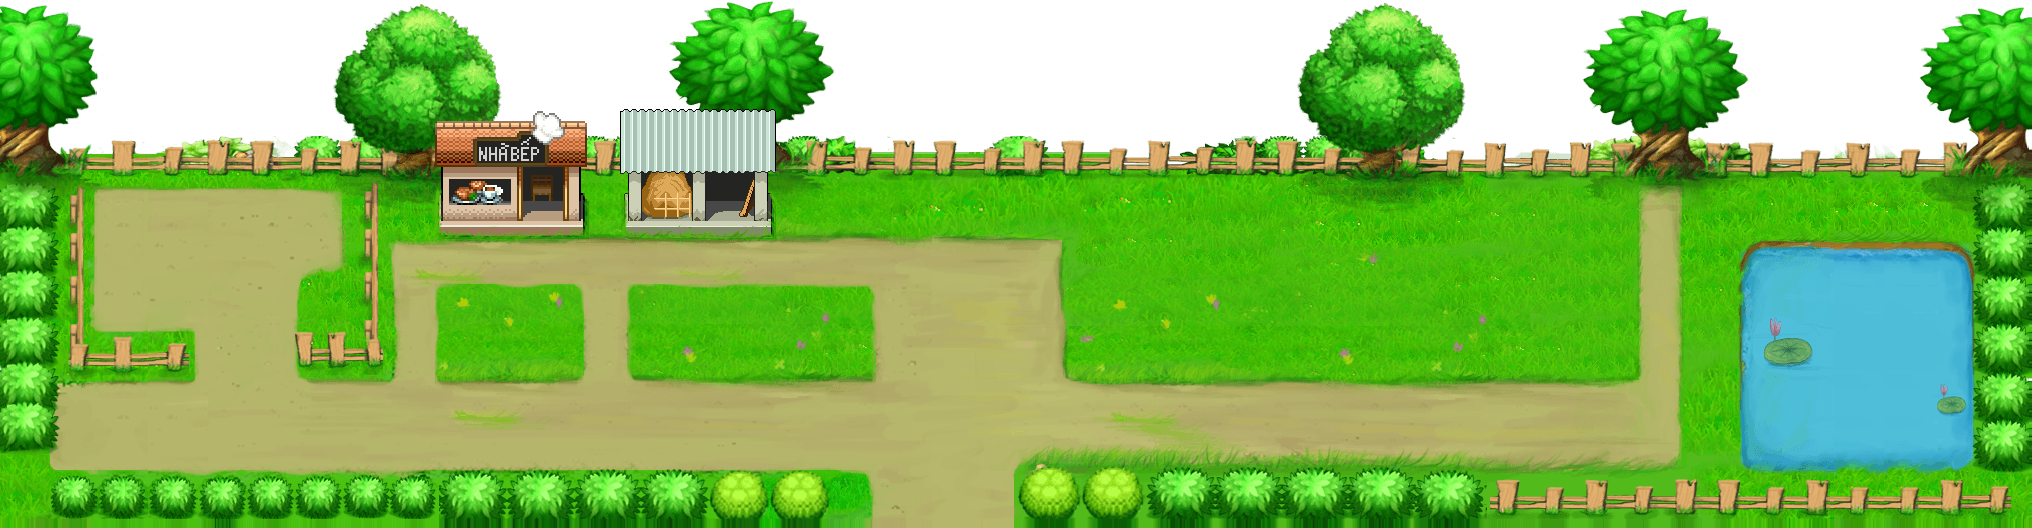
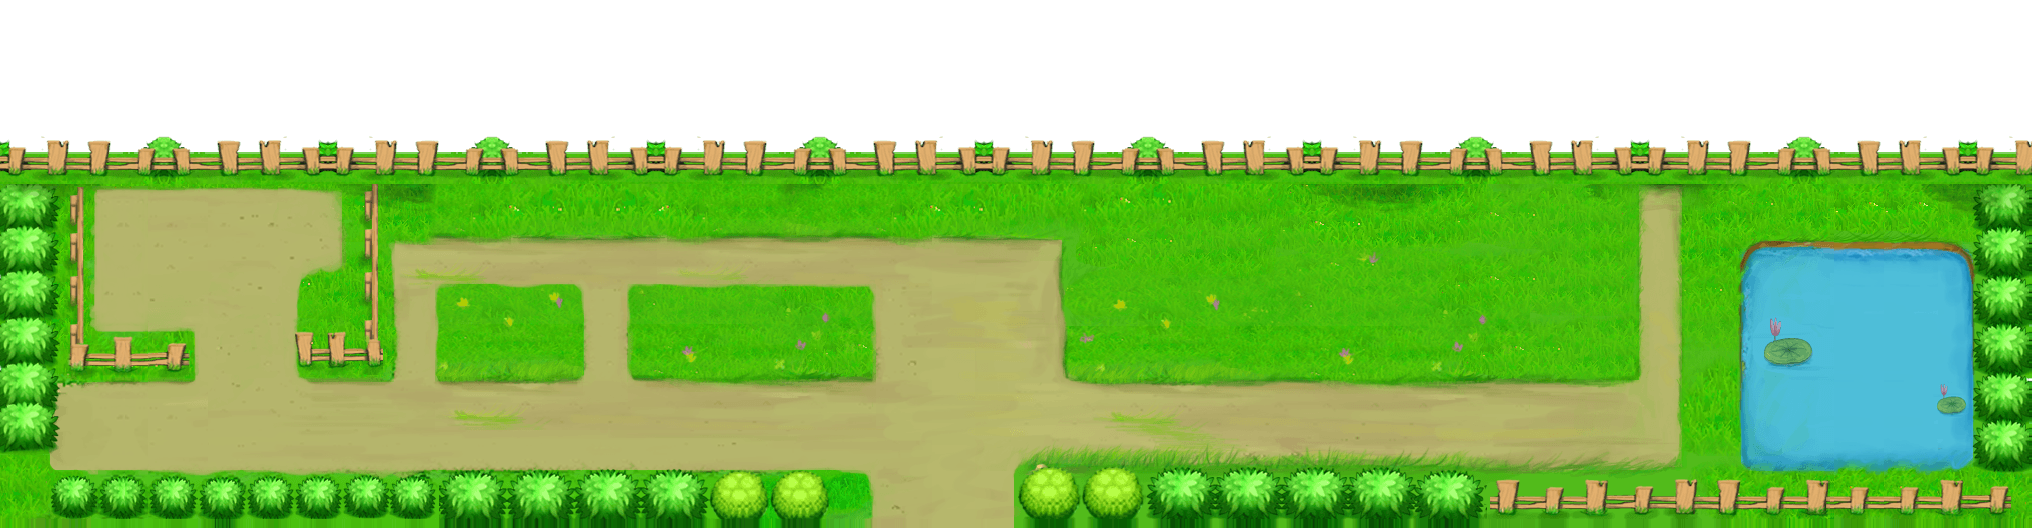
Nhà bếp/kho/cửa hàng dùng pack Cozy, sạch cây, bỏ mốc cổng
- scripts/clean_farm_map.py: xoá hết cây và mấy khúc gỗ đã chặt trên nền
  nông trại + cổng, xoá luôn 2 căn nhà và cửa hàng vẽ sẵn, trả lại hàng rào
  và thảm cỏ bằng cách lát gương một đoạn viền sạch trong chính map
- Nhà bếp / nhà kho / cửa hàng dựng lại bằng sprite pack Cozy
  (farm_house, farm_barn, farm_market), có tên treo phía trên
- Bỏ mốc cổng nhấp nháy trên map nền ảnh: cứ đi tới cổng/nhà là hiện nút,
  tầm với nới rộng 26 -> 64px cho vừa cỡ map HD
- Xe cộ và nhà chờ xe buýt phóng to cho khớp tỉ lệ map HD
- scripts/reskin_shelter.py: thay poster logo game khác trong nhà chờ bằng
  poster nông trại dựng từ sprite pack Cozy

Claude-Session: https://claude.ai/code/session_012s4JfXd6t7YNfBeGEkBxTh

Changed region(s): [[0.0, 0.0, 1.0, 0.4848]]

diff --git a/src/scenes/WorldScene.ts b/src/scenes/WorldScene.ts
@@ -48,10 +48,13 @@ let pendingDepart: string | undefined;
 const TRAFFIC_KEYS = ['veh_bus', 'veh_truck_orange', 'veh_camper_pink', 'veh_camper_yellow', 'veh_truck_bee', 'veh_truck_gift'];
 
 // Decor đặt sẵn theo khu (sprite thật từ asset pack) — toạ độ tile, origin đáy giữa
-const ZONE_DECOR: Record<string, { key: string; x: number; y: number; s?: number }[]> = {
-  // Nông trại không đặt thêm công trình nào: nhà bếp, nhà kho, sân rào, hồ cá
-  // và cây cối đều nằm sẵn trong ảnh nền map 25 -> không thể chồng lên nhau.
-  farm: [],
+const ZONE_DECOR: Record<string, { key: string; x: number; y: number; s?: number; label?: string }[]> = {
+  // Nền map 25 đã bị xoá sạch cây + 2 căn nhà gốc (scripts/clean_farm_map.py),
+  // nhà bếp và nhà kho dựng lại bằng sprite pack Cozy cho đồng bộ style.
+  farm: [
+    { key: 'bld_farm_house', x: 32, y: 15, s: 2, label: 'Nhà bếp' },
+    { key: 'bld_farm_barn', x: 43.5, y: 15, s: 2, label: 'Nhà kho' }
+  ],
   beach: [
     { key: 'bld_fishshop', x: 10, y: 7 },    // tiệm câu ông Biển
     { key: 'bld_beachbar', x: 22, y: 12 },
@@ -69,8 +72,11 @@ const ZONE_DECOR: Record<string, { key: string; x: number; y: number; s?: number
     { key: 'lt_love_tree', x: 50, y: 22, s: 1 }      // cây tình yêu
   ],
   // map cổng: cây + đèn + ghế dọc vỉa hè
-  // cổng nông trại cũng dùng ảnh nền gốc (biển FARM, cửa hàng, cây) -> để trống
-  farm_gate: [],
+  // cổng nông trại: nền gốc chỉ còn biển FARM + hàng rào, cửa hàng dựng lại
+  // bằng sprite pack Cozy cho khớp style với nhà bếp/nhà kho trong nông trại
+  farm_gate: [
+    { key: 'bld_farm_market', x: 49, y: 11, s: 2, label: 'Cửa hàng' }
+  ],
   town_gate: [
     { key: 'bld_cafe', x: 7, y: 8, s: 0.9 }, { key: 'bld_pub', x: 34, y: 8, s: 0.9 },
     { key: 'deco_lamp_black', x: 13, y: 11 }, { key: 'deco_lamp_black', x: 27, y: 11 },
@@ -457,10 +463,10 @@ export class WorldScene extends Phaser.Scene {
     const sx = this.busStopX();
     // nền ảnh gốc: đường đất rộng hơn -> đẩy nhà chờ hẳn xuống mặt đường
     const sy = this.zone.bg ? top + 22 : top - 2;
-    this.add.image(sx, sy, 'lt_shelter').setOrigin(0.5, 1).setDepth(sy - 40).setScale(0.6);
+    this.add.image(sx, sy, 'lt_shelter').setOrigin(0.5, 1).setDepth(sy - 40).setScale(this.zone.bg ? 1.1 : 0.6);
     // xe riêng đậu mép đường
     if (S.vehicle && this.textures.exists(`veh_${S.vehicle}`)) {
-      this.add.image(sx + 7 * T, this.roadMidY(), `veh_${S.vehicle}`).setDepth(this.roadMidY()).setScale(1.1);
+      this.add.image(sx + 7 * T, this.roadMidY(), `veh_${S.vehicle}`).setDepth(this.roadMidY()).setScale(this.zone.bg ? 2.2 : 1.1);
     }
 
     if (!this.zone.bg) this.drawGateArch();   // ảnh nền gốc đã có cổng chào riêng
@@ -507,7 +513,7 @@ export class WorldScene extends Phaser.Scene {
         : top + (zh - top) * (toRight ? 0.72 : 0.3);
       const w = this.zone.w * T;
       const car = this.add.image(toRight ? -120 : w + 120, laneY, key)
-        .setDepth(laneY).setScale(1.05).setFlipX(!toRight);
+        .setDepth(laneY).setScale(this.zone.bg ? 2.2 : 1.05).setFlipX(!toRight);
       this.tweens.add({
         targets: car, x: toRight ? w + 120 : -120,
         duration: 6000 + Math.random() * 4000,
@@ -601,6 +607,12 @@ export class WorldScene extends Phaser.Scene {
         .setOrigin(0.5, 1)
         .setScale(d.s ?? (d.key.startsWith('bld_') ? 1.1 : 1.2))
         .setDepth(d.y * T);
+      // tên công trình treo phía trên (thay cho mốc cổng nhấp nháy)
+      if (d.label) {
+        this.add.text(d.x * T, d.y * T - img.displayHeight - 6, d.label, {
+          fontSize: '11px', color: '#fff8e8', backgroundColor: '#00000090', padding: { x: 5, y: 2 }
+        }).setOrigin(0.5, 1).setDepth(d.y * T + 1);
+      }
       // chỉ lấy phần chân nhà để đường đi né, không lấy cả mái
       this.decorRects.push(new Phaser.Geom.Rectangle(
         d.x * T - img.displayWidth * 0.36, d.y * T - 14, img.displayWidth * 0.72, 20));
@@ -684,6 +696,9 @@ export class WorldScene extends Phaser.Scene {
 
   // ================= cổng khu vực =================
   private drawPortals() {
+    // map dùng ảnh nền gốc đã có cổng/nhà vẽ sẵn -> không cần mốc nhấp nháy,
+    // cứ đi tới là hiện nút đi tiếp.
+    if (this.zone.bg) return;
     for (const p of this.zone.portals) {
       const px = p.x * T, py = p.y * T;
       this.add.circle(px, py, 10, 0xffe066, 0.35).setDepth(1);
@@ -1170,7 +1185,7 @@ export class WorldScene extends Phaser.Scene {
     }
     // cổng
     for (const p of this.zone.portals) {
-      if (Phaser.Math.Distance.Between(this.player.x, this.player.y, p.x * T, p.y * T) < 26) {
+      if (Phaser.Math.Distance.Between(this.player.x, this.player.y, p.x * T, p.y * T) < (this.zone.bg ? 64 : 26)) {
         acts.push({ icon: p.icon, label: `Đi tới ${p.label}`, cb: () => this.travel(p.to) });
       }
     }

diff --git a/scripts/clean_farm_map.py b/scripts/clean_farm_map.py
@@ -1,0 +1,61 @@
+"""Dọn nền nông trại: bỏ sạch cây (kể cả mấy khúc gỗ đã chặt) và 2 căn nhà gốc.
+
+Nhà bếp / nhà kho sau đó được đặt lại bằng sprite của pack Cozy trong code
+(ZONE_DECOR.farm), nên ở đây chỉ cần xoá phần vẽ sẵn đi và trả lại hàng rào +
+thảm cỏ. Dải hàng rào sạch (không cây, không nhà) được lấy ngay trong chính
+map rồi lát gương ra nên không lệch màu.
+
+Chạy sau scripts/build_farm_maps.py.
+"""
+from PIL import Image
+import numpy as np
+
+MAP = 'public/assets/lttt/maps/farmbg.png'
+im = Image.open(MAP).convert('RGBA')
+W, H = im.size
+
+FENCE_BOTTOM = 184           # mép dưới dải hàng rào viền trên
+DONOR = (846, 1010)          # đoạn hàng rào + cỏ sạch dùng làm mẫu (không dính tán cây)
+BLD = (425, 790)             # bề ngang 2 căn nhà vẽ sẵn
+BLD_BOTTOM = 252
+
+
+def mirror_tile(patch, w, h):
+    out = Image.new('RGBA', (w, h))
+    fx = patch.transpose(Image.FLIP_LEFT_RIGHT)
+    for i, x in enumerate(range(0, w, patch.width)):
+        out.paste(fx if i % 2 else patch, (x, 0))
+    return out.crop((0, 0, w, h))
+
+
+# 1. thay cả dải viền trên -> mất hết cây + khúc gỗ đã chặt
+band = im.crop((DONOR[0], 0, DONOR[1], FENCE_BOTTOM))
+im.paste(mirror_tile(band, W, FENCE_BOTTOM), (0, 0))
+
+# 2. xoá thân 2 căn nhà, trả lại thảm cỏ (mép dưới hoà dần cho khỏi lộ)
+gw, gh = BLD[1] - BLD[0], BLD_BOTTOM - FENCE_BOTTOM
+grass = mirror_tile(im.crop((DONOR[0], FENCE_BOTTOM, DONOR[1], BLD_BOTTOM)), gw, gh)
+FEA = 14
+a = np.ones((gh, gw), np.float32)
+ramp = np.linspace(1, 0, FEA, dtype=np.float32)
+a[-FEA:, :] *= ramp[:, None]
+a[:, :FEA] *= ramp[::-1][None, :]
+a[:, -FEA:] *= ramp[None, :]
+grass.putalpha(Image.fromarray((a * 255).astype(np.uint8)))
+im.alpha_composite(grass, (BLD[0], FENCE_BOTTOM))
+
+im.save(MAP)
+print('cleaned', im.size)
+
+# ---------------- map cổng: bỏ cây + khúc gỗ, bỏ căn cửa hàng gốc ----------------
+GATE = 'public/assets/lttt/maps/farmgate.png'
+gm = Image.open(GATE).convert('RGBA')
+GW = gm.width
+G_BOTTOM = 178                # mép dưới dải hàng rào
+G_DONOR = (876, 986)          # đoạn hàng rào sạch (không cây, không trụ cổng)
+# giữ lại đúng biển "FARM" (x 350..505), phần còn lại trả về hàng rào trơn
+gband = gm.crop((G_DONOR[0], 0, G_DONOR[1], G_BOTTOM))
+gm.paste(mirror_tile(gband, 350, G_BOTTOM), (0, 0))
+gm.paste(mirror_tile(gband, GW - 505, G_BOTTOM), (505, 0))
+gm.save(GATE)
+print('gate cleaned', gm.size)

diff --git a/scripts/reskin_shelter.py b/scripts/reskin_shelter.py
@@ -1,0 +1,51 @@
+"""Thay tấm quảng cáo trong nhà chờ xe buýt (asset gốc là logo của game khác)
+bằng một tấm poster nông trại tự dựng từ sprite pack Cozy.
+"""
+from PIL import Image, ImageDraw
+
+SRC = 'public/assets/lttt/shelter.png'
+PANEL = (16, 30, 216, 100)          # khung tấm biển bên trong nhà chờ
+
+sh = Image.open(SRC).convert('RGBA')
+w, h = PANEL[2] - PANEL[0], PANEL[3] - PANEL[1]
+poster = Image.new('RGBA', (w, h), (0, 0, 0, 0))
+d = ImageDraw.Draw(poster)
+
+# trời chuyển sắc
+for y in range(h):
+    t = y / h
+    d.line([(0, y), (w, y)], fill=(int(150 + 70 * t), int(205 + 35 * t), int(240 - 10 * t)))
+# mặt trời
+d.ellipse([w - 34, 5, w - 12, 27], fill=(255, 232, 150))
+d.ellipse([w - 31, 8, w - 15, 24], fill=(255, 246, 200))
+# đồi cỏ
+d.ellipse([-30, h - 40, w // 2 + 20, h + 30], fill=(126, 200, 92))
+d.ellipse([w // 2 - 30, h - 34, w + 40, h + 34], fill=(108, 186, 78))
+d.rectangle([0, h - 16, w, h], fill=(140, 208, 100))
+# luống đất
+for i in range(5):
+    y0 = h - 14 + i * 3
+    d.line([(6 + i * 2, y0), (w - 6 - i * 2, y0)], fill=(176, 146, 96))
+
+
+def paste_fit(name, box_h, pos):
+    im = Image.open(name).convert('RGBA')
+    bb = im.getbbox()
+    if bb:
+        im = im.crop(bb)
+    k = box_h / im.height
+    im = im.resize((max(1, int(im.width * k)), box_h), Image.NEAREST)
+    poster.alpha_composite(im, pos)
+
+
+# hàng rào trắng chạy ngang chân đồi
+d.line([(0, h - 20), (w, h - 20)], fill=(246, 244, 232), width=2)
+for x in range(4, w, 13):
+    d.line([(x, h - 26), (x, h - 15)], fill=(246, 244, 232), width=2)
+
+paste_fit('public/assets/buildings/farm_house.png', 42, (16, h - 56))
+paste_fit('public/assets/buildings/farm_barn.png', 32, (w - 62, h - 46))
+
+sh.paste(poster, (PANEL[0], PANEL[1]))
+sh.save(SRC)
+print('shelter poster ->', poster.size)

diff --git a/docs/ASSETS.md b/docs/ASSETS.md
@@ -104,10 +104,20 @@ Script ghép: `scripts/build_farm_maps.py` (sửa biến `APK` trỏ tới thư 
 giải nén rồi chạy) — ghép mảnh xong kéo dài pixel mép cho khớp cỡ zone
 (2032x528 và 1312x464).
 
-Hai map này đã vẽ sẵn **nhà bếp, nhà kho, sân rào nuôi thú, hồ cá, đường đất,
-hàng rào và cây cối**, nên trong code không đặt thêm sprite công trình nào lên
-nông trại nữa — chỉ khai báo toạ độ để logic (ruộng, chuồng, câu cá) bám theo.
-Nhờ vậy không còn cảnh đường đi/nhà/ruộng đè lên nhau.
+Hai map này đã vẽ sẵn **sân rào nuôi thú, hồ cá, đường đất và hàng rào**, nên
+code chỉ khai báo toạ độ để logic (ruộng, chuồng, câu cá) bám theo — không còn
+cảnh đường đi/nhà/ruộng đè lên nhau.
+
+`scripts/clean_farm_map.py` chạy tiếp sau đó để **xoá hết cây (kể cả mấy khúc
+gỗ đã chặt) và các căn nhà vẽ sẵn**, trả lại hàng rào + thảm cỏ bằng cách lát
+gương một đoạn viền sạch lấy ngay trong chính map. Nhà bếp / nhà kho / cửa hàng
+sau đó dựng lại bằng sprite **pack Cozy** (`assets/buildings/farm_house`,
+`farm_barn`, `farm_market`) khai báo trong `ZONE_DECOR`, kèm tên treo phía trên
+— thay cho mốc cổng nhấp nháy (map nền đã có cổng/nhà, cứ đi tới là hiện nút).
+
+`scripts/reskin_shelter.py` vẽ lại tấm biển trong nhà chờ xe buýt
+(`assets/lttt/shelter.png`) — ảnh gốc là poster logo của game khác, nay thay
+bằng poster nông trại dựng từ chính sprite pack Cozy.
 ⚠ **Lưu ý bản quyền:** bộ này trông giống resource của game Avatar (TeaMobi) gốc —
 nếu đúng vậy thì chỉ nên dùng để dev/test; bản phát hành thương mại cần thay bằng
 asset tự vẽ hoặc có quyền sử dụng.
